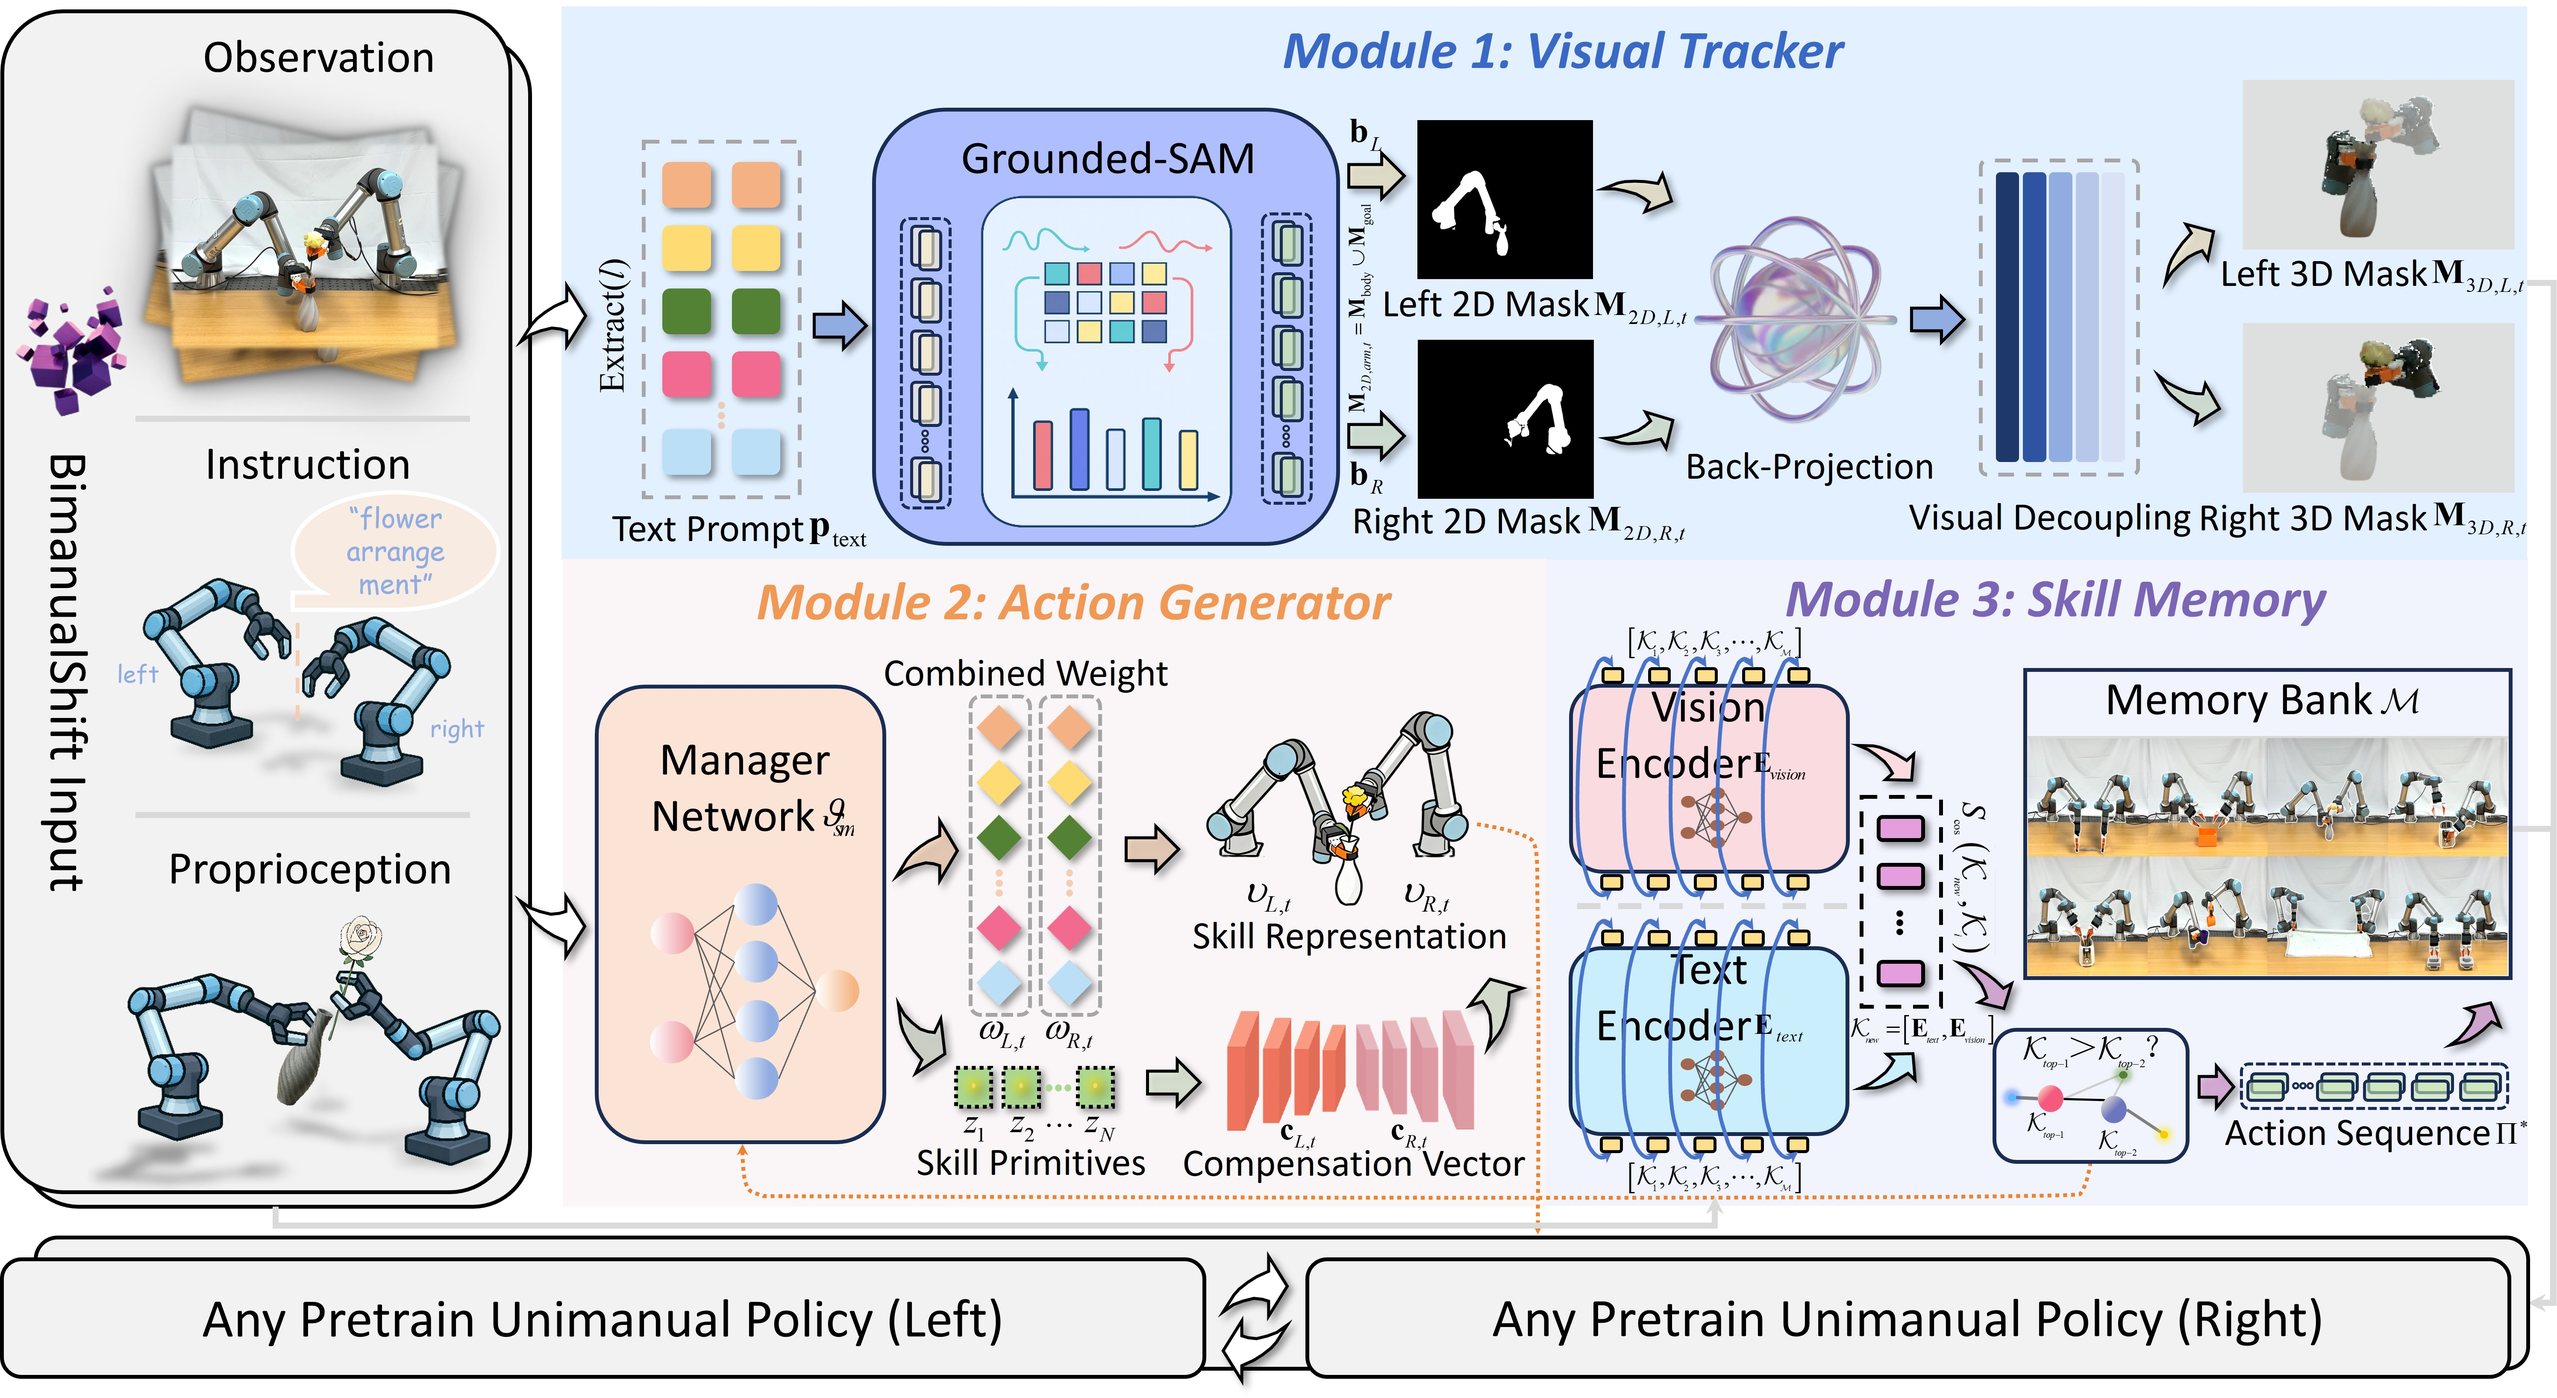
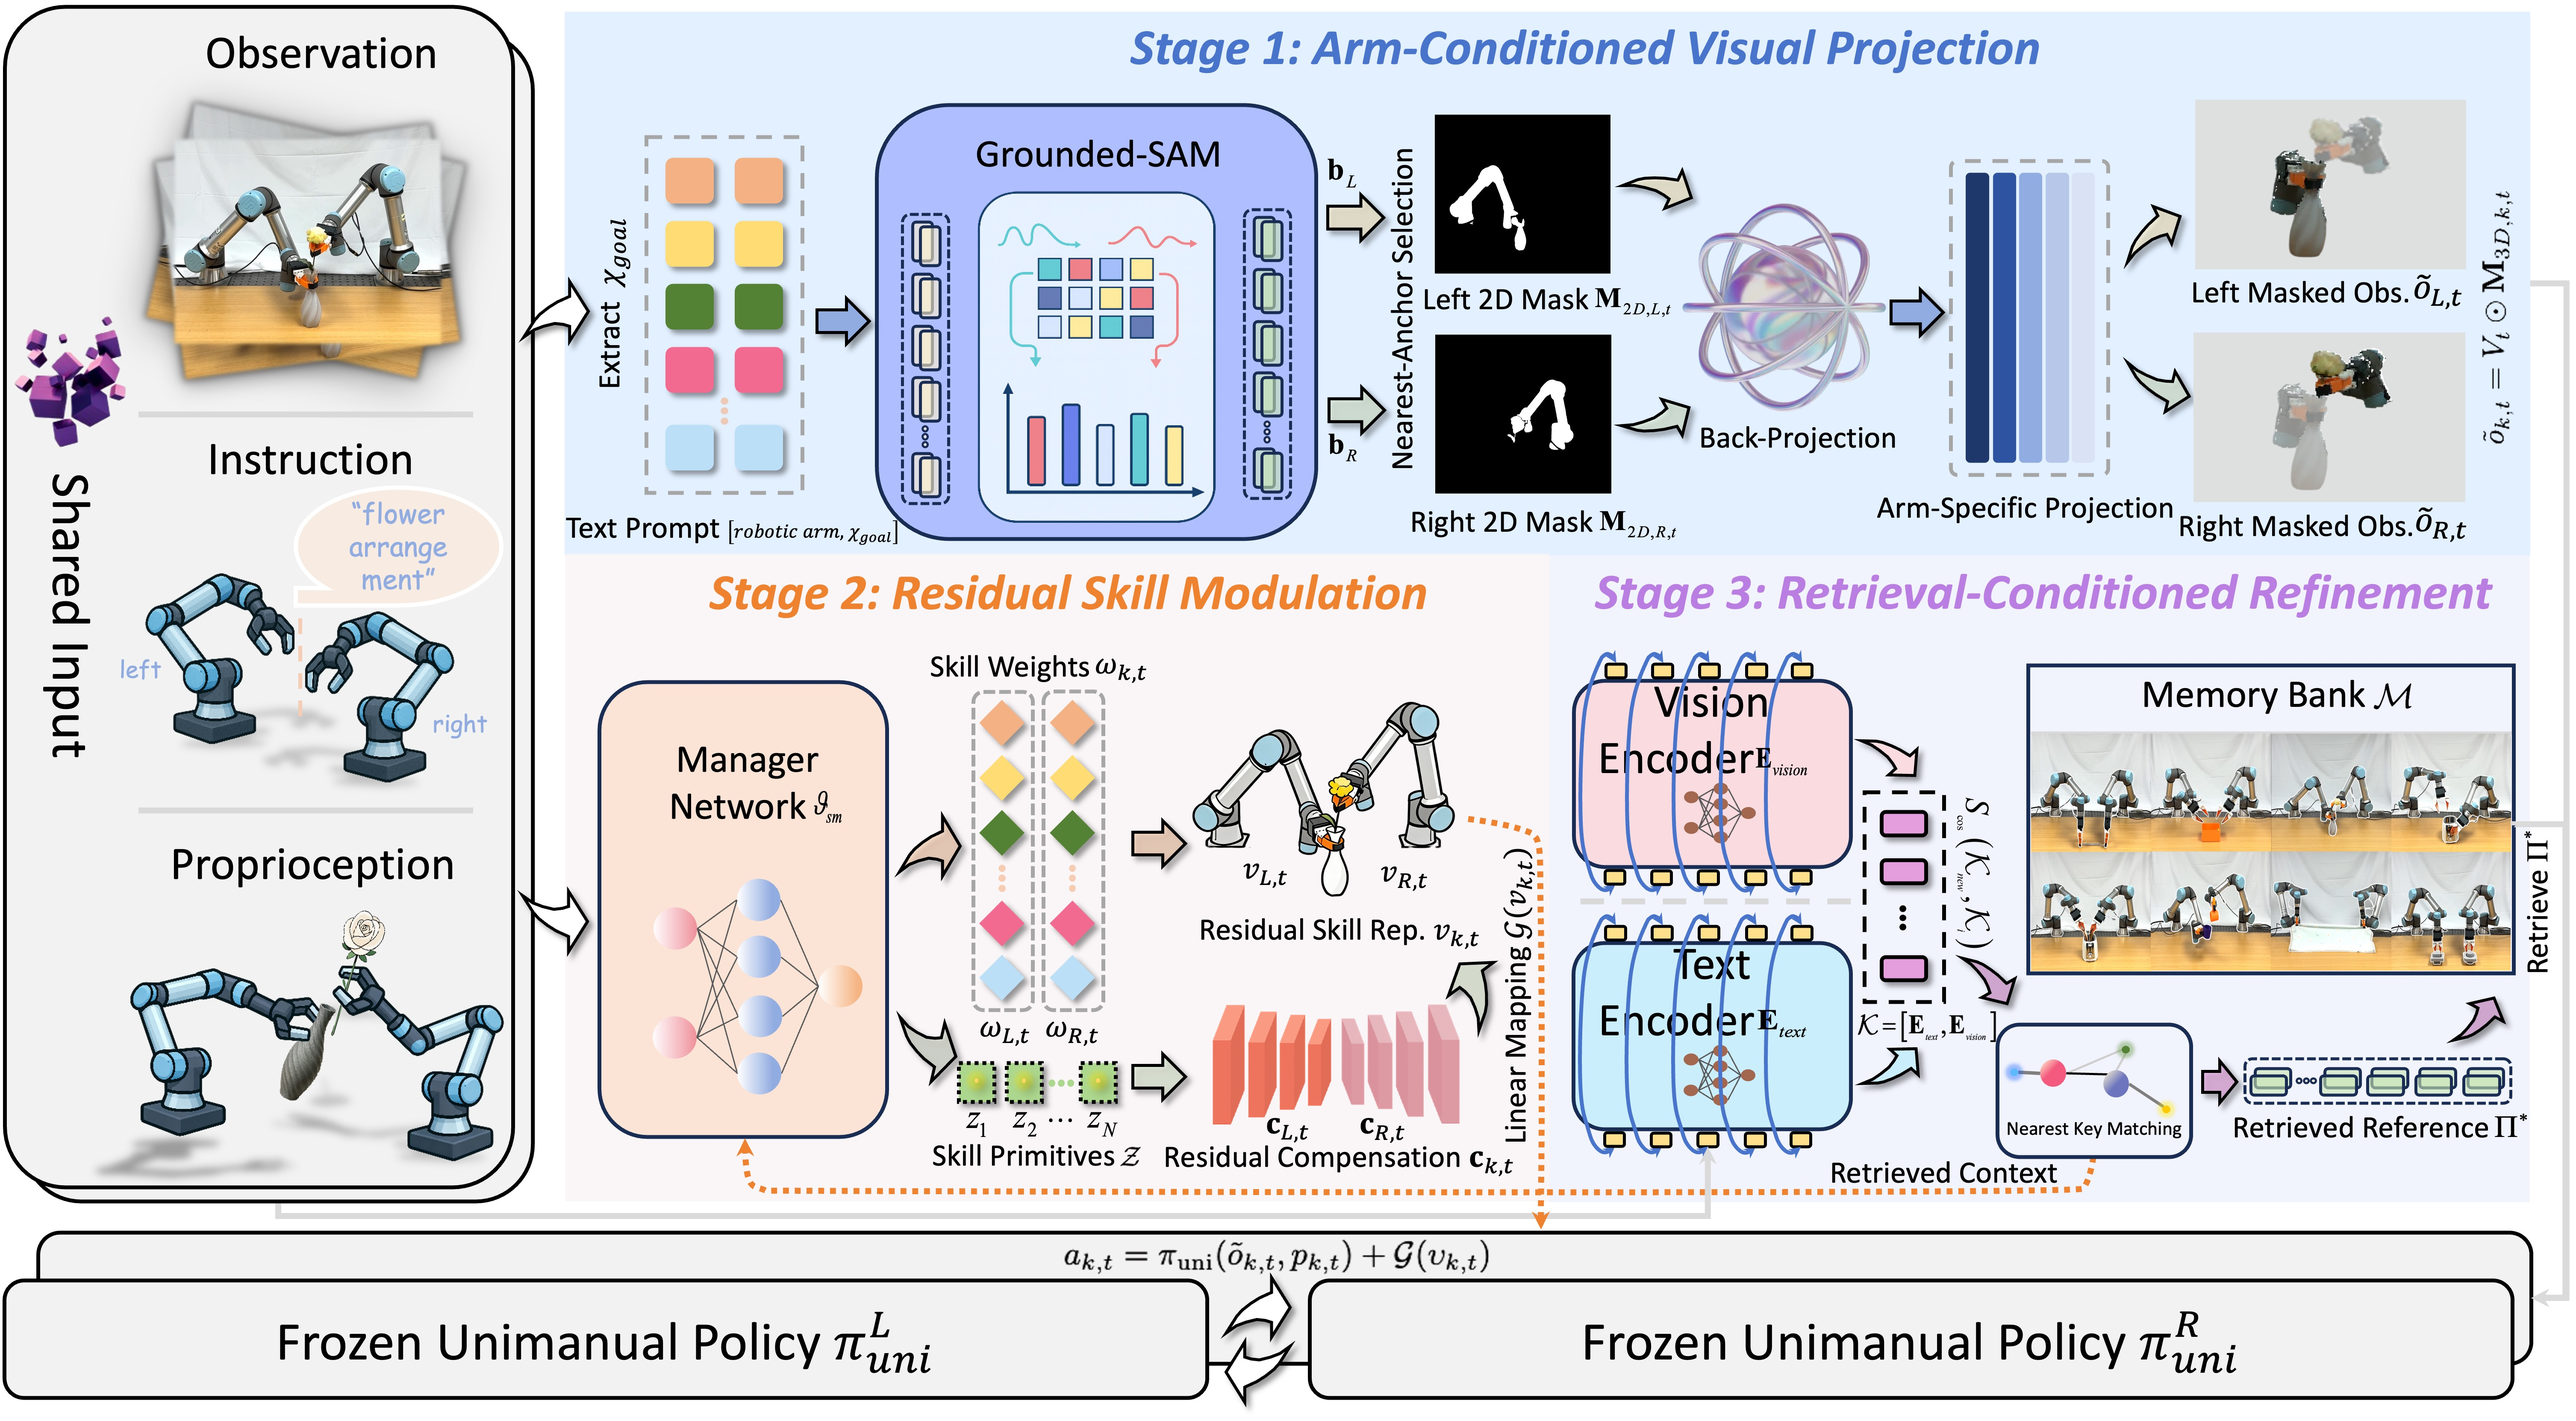
Update Bift page for revised manuscript

diff --git a/assets/Bift/index.html b/assets/Bift/index.html
@@ -154,7 +154,7 @@
             </div>
           </div>
           <p style="text-align: justify;">
-            BimanualShift achieves skill transfer from arbitrary pretrained unimanual policies to complex bimanual manipulation tasks by adapting fully frozen unimanual policy priors.
+            BimanualShift adapts frozen pretrained unimanual policies to bimanual manipulation through arm-conditioned residual skill transfer. Instead of learning a full bimanual policy from scratch, it aligns shared bimanual observations to arm-specific inputs and learns lightweight residual coordination for synchronization, spatial avoidance, and contact compensation under few bimanual demonstrations.
           </p>
         </div>
       </div>
@@ -171,7 +171,7 @@
             <img src="./static/images/framework.jpg" alt="Framework" class="image is-fullwidth">
           </div>
           <p class="content has-text-justified mt-4">
-            The framework is built upon frozen pretrained unimanual policies and consists of three core learnable modules. Module 1 (Visual Tracker) uses semantic masks to decouple the shared workspace into arm-specific visual inputs, eliminating attention interference. Module 2 (Action Generator) acts as an adapter that transforms high-level instructions into dynamic skill weights and compensation vectors, guiding the low-level policies to achieve coordinated behaviors. Module 3 (Skill Memory) retrieves relevant past experience and incorporates closed-loop reflection, enabling continual learning and rapid adaptation to new tasks.
+            The framework treats bimanual manipulation as arm-conditioned residual skill transfer over frozen unimanual policy priors. Arm-Conditioned Visual Projection converts the shared workspace into policy-compatible arm-specific observations, Residual Skill Modulation adds lightweight residual actions to frozen policy outputs for dual-arm coordination, and Retrieval-Conditioned Refinement reuses successful executions as residual contexts for long-horizon correction rather than direct trajectory replay.
           </p>
         </div>
       </div>
@@ -185,7 +185,7 @@
           <div class="column is-two-thirds">
             <div class="content has-text-justified">
               <p>
-               We evaluate BimanualShift on six representative bimanual manipulation tasks from RLBench2. RLBench2 extends the widely used unimanual benchmark RLBench to bimanual manipulation scenarios. In simulation, we use two Franka Panda robotic arms equipped with parallel grippers. To fully cover the workspace, we deploy six noise-free RGB-D cameras (256 × 256 resolution) at the front, left shoulder, right shoulder, left wrist, right wrist, and top-down viewpoints.
+               We evaluate BimanualShift on six representative bimanual manipulation tasks from RLBench2 using two Franka Panda arms and six noise-free RGB-D cameras at 256 × 256 resolution. To reflect real-world data-collection costs, the tasks are split into complex 30-demonstration tasks and simpler 100-demonstration tasks. BimanualShift-PerAct achieves the best average success rates in both settings, reaching 31.7% on the complex tasks and 50.7% on the single-action tasks.
               </p>
             </div>
           </div>
@@ -228,7 +228,7 @@
         <div class="column is-two-thirds">
           <div class="content has-text-justified">
             <p>
-            The evaluation involves eight real-world tasks covering diverse challenges: Flower Arrangement and Pouring Water require coordinated stability and smooth motion control; Toasting Completion and Vegetable Sorting test synchronous grasping and timing; Quilt Folding and Cable Routing demand robust control under deformable object dynamics; while Toaster Activation and Block Threading involve heterogeneous actions and high-precision spatial alignment in constrained spaces.
+            The evaluation involves eight real-world tasks covering diverse challenges: Flower Arrangement and Pouring Water require coordinated stability and smooth motion control; Toasting Completion and Vegetable Sorting test synchronous grasping and timing; Quilt Folding and Cable Routing demand robust control under deformable object dynamics; while Toaster Activation and Block Threading involve heterogeneous actions and high-precision spatial alignment in constrained spaces. With only 15 bimanual demonstrations per task, BimanualShift adapts PerAct and Diffusion Policy backbones pretrained on separate unimanual data and improves performance over an end-to-end DP baseline trained from scratch.
             </p>
           </div>
         </div>
@@ -304,7 +304,7 @@
         <div class="column is-two-thirds">
           <div class="content has-text-justified">
             <p>
-              To evaluate the generalization capability of BimanualShift under unseen conditions, we conduct a generalization study on the Block Threading task using the best-performing configuration, BimanualShift-PerAct. Five types of perturbations are considered: unseen object color, unseen object shape, lighting change, left–right task exchange, and unseen background.
+              To evaluate real-world generalization, we conduct a comprehensive study on the Block Threading task using BimanualShift-PerAct. Seven settings are considered: unseen object color, unseen object shape, lighting change, left-right task exchange, unseen background, extreme glare, and camera perturbation. Across these appearance, configuration, and sensing changes, BimanualShift-PerAct consistently outperforms PerAct-LF in stage-wise success rates.
             </p>
           </div>
         </div>
@@ -357,7 +357,7 @@
         <div class="column is-two-thirds">
           <div class="content has-text-justified">
             <p>
-             To validate the reliability of BimanualShift in industrial deployment, we introduce two representative sources of real-world disturbances on the physical robot platform: 1) Extreme Glare, induced by a high-intensity point light to create severe reflections and shadows, and 2) Camera Perturbations, simulated by injecting a 1 cm translational error and a 2° rotational error into the camera extrinsic parameters.
+             To validate reliability under challenging sensing conditions, we evaluate BimanualShift-PerAct on the Block Threading task with extreme glare and camera perturbation. These settings are part of the seven real-world generalization scenarios and test robustness to severe reflections, shadows, and calibration variations on the physical robot platform.
             </p>
           </div>
         </div>
@@ -382,7 +382,7 @@
         <div class="column is-two-thirds">
           <div class="content has-text-justified">
             <p>
-              To evaluate the lifelong learning capability of the skill memory module in BimanualShift, we construct a long-horizon task that requires sequential composition of multiple actions, after the model has learned the Toasting Completion and Toaster Activation skills. The task consists of four actions: Action 1 (inserting the toast into the toaster), Action 2 (pressing the activation button), Action 3 (grasping the toasted bread), and Action 4 (placing the bread onto a plate).            
+              To evaluate retrieval-conditioned residual refinement in long-horizon execution, we construct a task after the model has learned Toasting Completion and Toaster Activation. The task consists of four sequential actions: Insert, Press, Grasp, and Place. With only 5 demonstrations for the novel skill, BimanualShift-PerAct reaches 75.0% overall success, showing that retrieved residual contexts improve long-horizon execution under limited demonstrations.
             </p>
           </div>
         </div>
